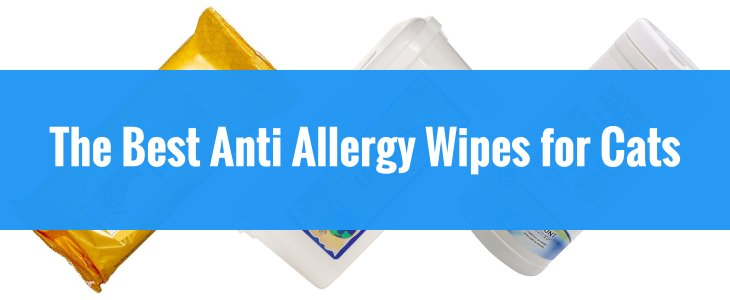
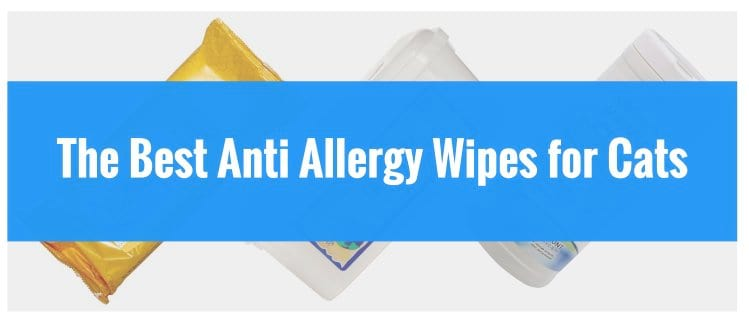
Update post

diff --git a/assets/css/main.scss b/assets/css/main.scss
@@ -128,7 +128,7 @@ p.notice--info {
   text-decoration: underline
 }
 .h1-top {
-  margin-top: 20px;
+  margin-top: 0px;
 }
 /*footer*/
 nav.pagination a.pagination--pager {

diff --git a/_posts/cats/2017-05-20-best-anti-allergy-wipes-for-cats.md b/_posts/cats/2017-05-20-best-anti-allergy-wipes-for-cats.md
@@ -5,8 +5,8 @@ excerpt: "A selection of the best hypoallergenic wipes for cats."
 date: 2017-05-20
 modified: 2017-05-20
 header:
-  teaser: assets/images/cats/best-anti-allergy-wipes-for-cats-teaser-1.jpg
-pinterest: assets/images/cats/best-anti-allergy-wipes-for-cats-1.jpg
+  teaser: assets/images/cats/best-anti-allergy-wipes-for-cats-teaser.jpg
+pinterest: assets/images/cats/best-anti-allergy-wipes-for-cats.jpg
 categories: Cats
 tags: [Allergy, Cat, Hypoallergenic, Litter, Review, Wipes]
 redirect_from:
@@ -15,7 +15,7 @@ published: true
 ---
 
 <figure>
-  <img src="{{ site.url }}/assets/images/cats/best-anti-allergy-wipes-for-cats-1.jpg" alt="best anti allergy wipes for cats">
+  <img src="{{ site.url }}/assets/images/cats/best-anti-allergy-wipes-for-cats.jpg" alt="best anti allergy wipes for cats">
 </figure>
 
 If you or your cat is suffering from allergies, there are a number of things you can do to help keep allergic reactions under control and minimize discomfort. One of them is to reduce the potential [allergens](https://en.wikipedia.org/wiki/Allergen){:target="_blank"} on your feline's fur to a minimum by wiping it down regularly.
